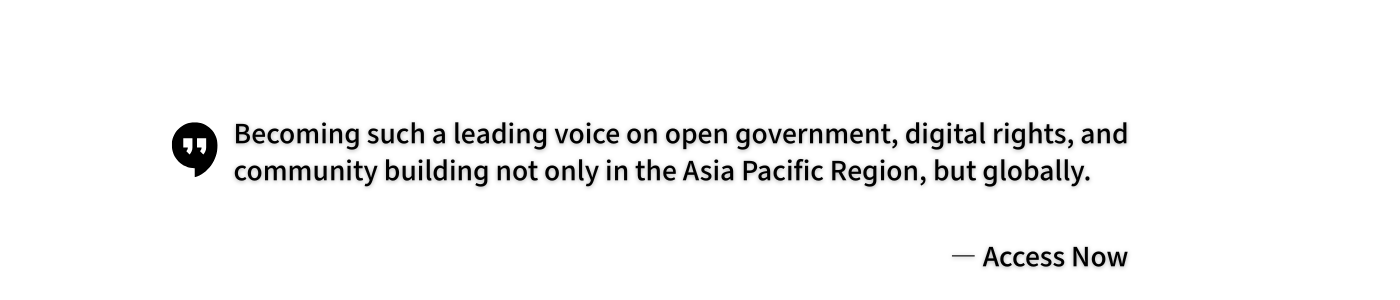
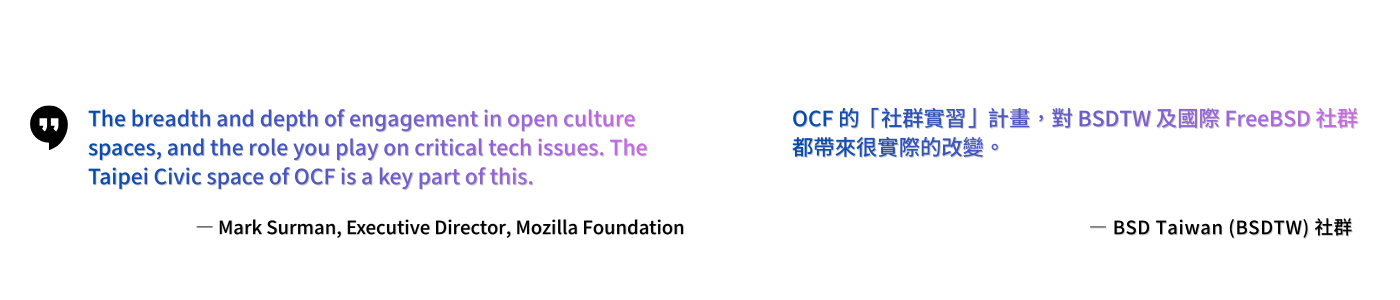
update slide pics

diff --git a/index.html b/index.html
@@ -142,8 +142,6 @@ donors: false
   <div><img src="/assets/images/homepage/slide1.png" alt="Slide 1"></div>
   <div><img src="/assets/images/homepage/slide2.png" alt="Slide 2"></div>
   <div><img src="/assets/images/homepage/slide3.png" alt="Slide 3"></div>
-  <div><img src="/assets/images/homepage/slide4.png" alt="Slide 4"></div>
-  <div><img src="/assets/images/homepage/slide5.png" alt="Slide 5"></div>
 </div>
 
 
